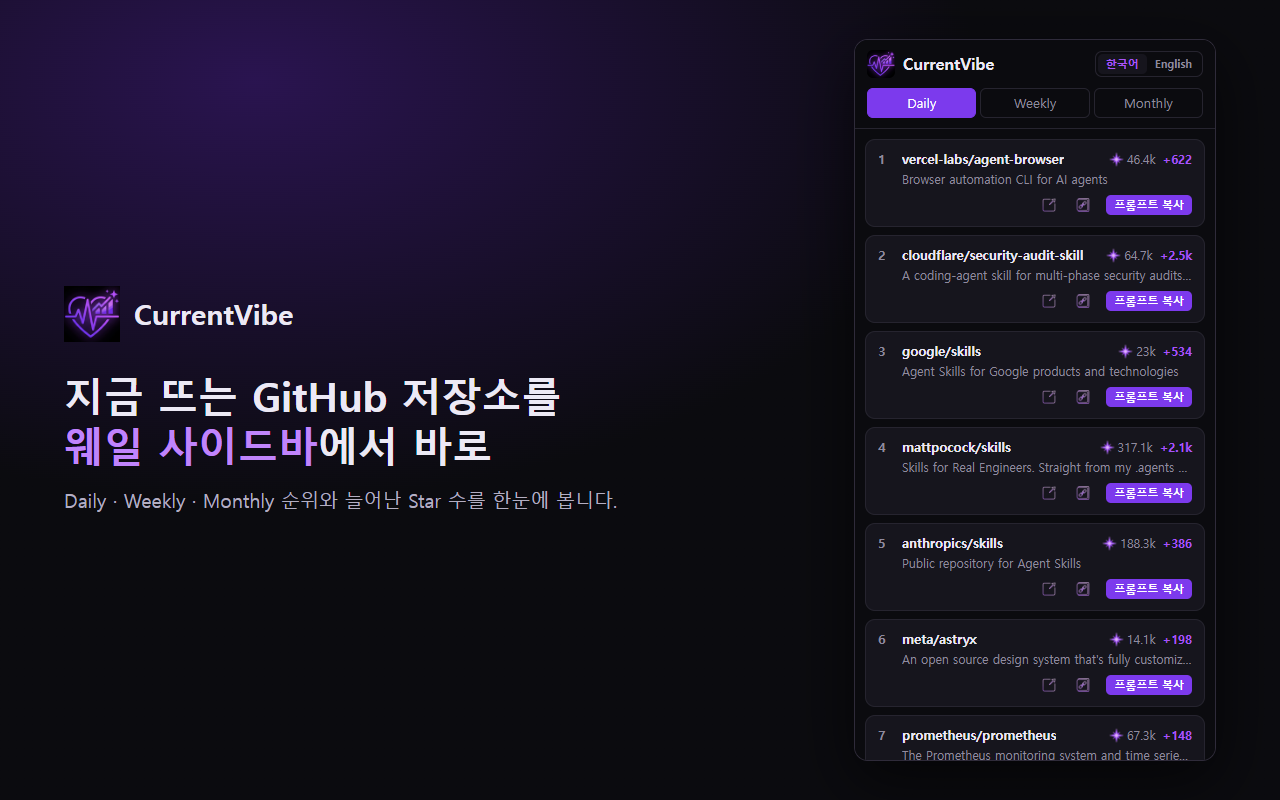
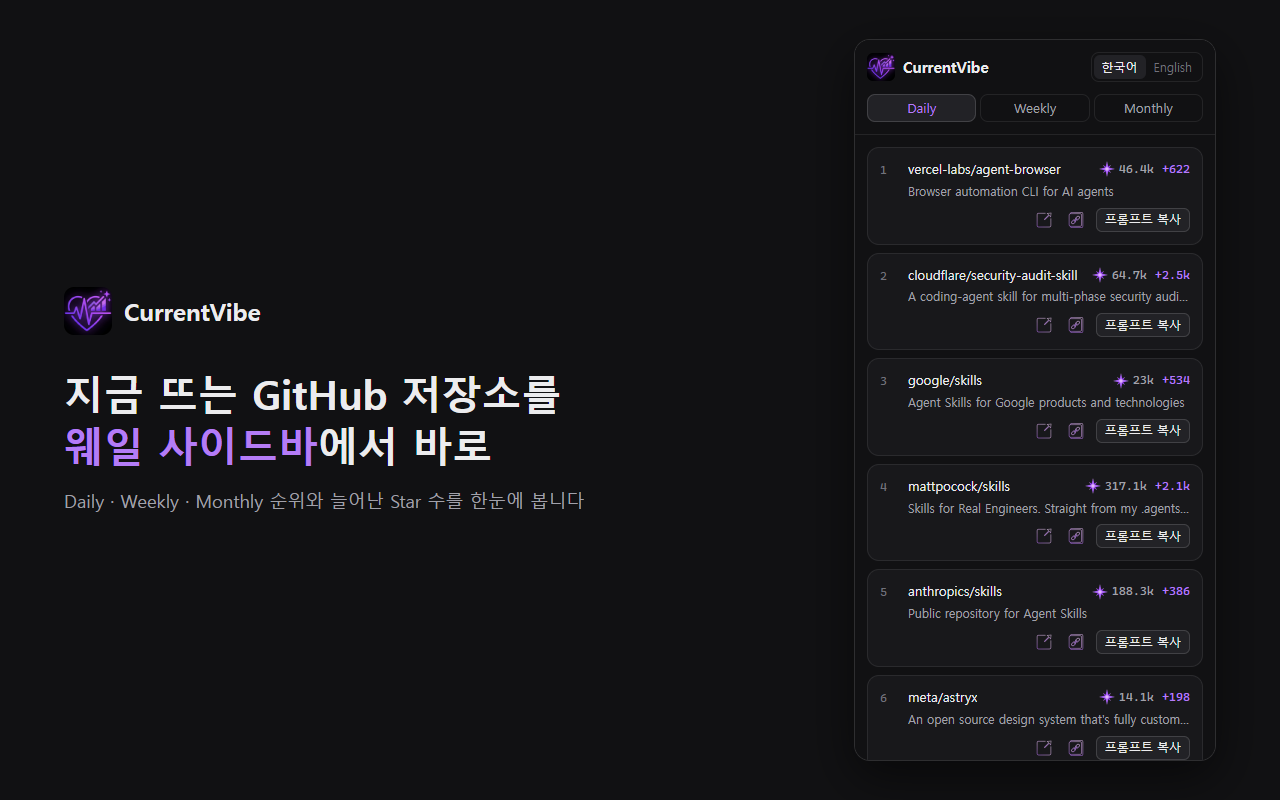
Quieter sidebar design and refreshed store screenshots
Graphite neutrals with purple only on the active tab and star gain,
neutral prompt button, mono tabular figures, 4px spacing grid, no hover
glow, plain toast copy. Store screenshots regenerated; detailed
description rewritten.

diff --git a/sidebar.css b/sidebar.css
@@ -1,81 +1,96 @@
 :root {
-  --bg: #0b0b0f;
-  --surface: #16151d;
-  --line: #26242f;
-  --text: #ece9f5;
-  --muted: #8f8a9e;
-  --purple: #a855f7;
-  --purple-strong: #7c3aed;
+  /* Graphite ramp; purple is the one accent */
+  --bg: #111113;
+  --surface: #18181b;
+  --raised: #222226;
+  --line: #ffffff14;
+  --line-strong: #ffffff24;
+  --text: #ececee;
+  --secondary: #a1a1aa;
+  --muted: #71717a;
+  --accent: #b47cf7;
+  --ease: cubic-bezier(.2, 0, 0, 1);
 }
 * { box-sizing: border-box; }
 html, body { margin: 0; background: var(--bg); color: var(--text); color-scheme: dark; }
 body { font: 13px/1.4 system-ui, -apple-system, "Segoe UI", "Malgun Gothic", sans-serif; }
 button { font: inherit; color: inherit; background: none; border: 0; cursor: pointer; }
+button:focus-visible { outline: 2px solid var(--accent); outline-offset: 2px; }
+.num { font-family: ui-monospace, "Cascadia Mono", Consolas, monospace; font-variant-numeric: tabular-nums; }
 
 header {
   position: sticky; top: 0; z-index: 1;
-  padding: 10px 12px; background: var(--bg); border-bottom: 1px solid var(--line);
+  padding: 12px; background: var(--bg); border-bottom: 1px solid var(--line);
 }
-.brand { display: flex; align-items: center; gap: 8px; margin-bottom: 10px; font-size: 16px; font-weight: 700; }
+.brand { display: flex; align-items: center; gap: 8px; margin-bottom: 12px; font-size: 15px; font-weight: 600; }
 .brand img { width: 28px; height: 28px; border-radius: 6px; }
 .bar { display: flex; gap: 8px; align-items: center; }
 #tabs { flex: 1; display: flex; gap: 4px; }
 #tabs button {
-  flex: 1; padding: 5px 0; border-radius: 6px; border: 1px solid var(--line); color: var(--muted);
+  flex: 1; height: 28px; border-radius: 8px; border: 1px solid var(--line); color: var(--secondary);
+  transition: background-color .15s var(--ease), color .15s var(--ease), border-color .15s var(--ease);
 }
-#tabs button.on { background: var(--purple-strong); border-color: var(--purple-strong); color: #fff; }
+#tabs button:hover { color: var(--text); background: var(--surface); }
+#tabs button.on { background: var(--raised); border-color: var(--line-strong); color: var(--accent); font-weight: 500; }
 /* Language switch: segmented control at the right of the brand row */
-#lang { margin-left: auto; display: flex; padding: 2px; border-radius: 7px; border: 1px solid var(--line); }
-#lang button { padding: 2px 8px; border-radius: 5px; font-size: 11px; font-weight: 600; color: var(--muted); }
+#lang { margin-left: auto; display: flex; padding: 2px; border-radius: 8px; border: 1px solid var(--line); }
+#lang button { height: 24px; padding: 0 8px; border-radius: 6px; font-size: 12px; font-weight: 500; color: var(--muted); }
 #lang button:hover { color: var(--text); }
-#lang button.on { background: var(--surface); color: var(--purple); }
+#lang button.on { background: var(--raised); color: var(--text); }
 
-#list { display: flex; flex-direction: column; gap: 8px; padding: 10px; }
-.item { padding: 10px 12px; border: 1px solid var(--line); border-radius: 10px; background: var(--surface); }
+#list { display: flex; flex-direction: column; gap: 8px; padding: 12px; }
+.item { padding: 12px; border: 1px solid var(--line); border-radius: 12px; background: var(--surface); }
 .row { display: flex; align-items: center; justify-content: space-between; gap: 8px; }
-.title { display: flex; gap: 6px; min-width: 0; }
-.rank { color: var(--muted); font-weight: 600; min-width: 18px; }
-.name { font-weight: 600; overflow: hidden; text-overflow: ellipsis; white-space: nowrap; }
-.stars { display: flex; align-items: center; gap: 3px; white-space: nowrap; font-size: 12px; color: var(--muted); }
-.stars img { width: 15px; height: 15px; }
-.gain { color: var(--purple); margin-left: 4px; font-weight: 600; }
+.title { display: flex; align-items: baseline; gap: 8px; min-width: 0; }
+.rank { color: var(--muted); min-width: 20px; font-size: 12px; }
+.name { font-weight: 500; overflow: hidden; text-overflow: ellipsis; white-space: nowrap; }
+.stars { display: flex; align-items: center; gap: 4px; white-space: nowrap; font-size: 12px; color: var(--secondary); }
+.stars img { width: 16px; height: 16px; }
+.gain { color: var(--accent); margin-left: 4px; }
 .desc {
-  margin: 3px 0 6px 24px; color: var(--muted); font-size: 12px;
+  margin: 4px 0 8px 28px; color: var(--secondary); font-size: 12px;
   white-space: nowrap; overflow: hidden; text-overflow: ellipsis;
 }
-.actions { display: flex; justify-content: flex-end; align-items: center; gap: 12px; }
-.icon { position: relative; display: flex; padding: 4px; border-radius: 6px; transition: background .15s; }
-.icon img { width: 14px; height: 14px; opacity: .8; transition: opacity .15s, filter .15s; }
-.icon:hover { background: #a855f722; }
-.icon:hover img { opacity: 1; filter: brightness(1.3) drop-shadow(0 0 3px #a855f7aa); }
+.actions { display: flex; justify-content: flex-end; align-items: center; gap: 8px; }
+.icon {
+  position: relative; display: flex; padding: 4px; border-radius: 6px;
+  transition: background-color .15s var(--ease);
+}
+.icon img { width: 16px; height: 16px; opacity: .7; transition: opacity .15s var(--ease); }
+.icon:hover { background: var(--raised); }
+.icon:hover img { opacity: 1; }
 /* Tooltip after ~1s hover */
 .icon[data-tip]::after {
-  content: attr(data-tip); position: absolute; right: 0; bottom: calc(100% + 6px);
-  padding: 3px 7px; border-radius: 5px; background: var(--line); color: var(--text);
-  font-size: 11px; white-space: nowrap; pointer-events: none; opacity: 0; transition: opacity .15s;
+  content: attr(data-tip); position: absolute; right: 0; bottom: calc(100% + 8px);
+  padding: 4px 8px; border-radius: 6px; background: var(--raised); border: 1px solid var(--line-strong);
+  color: var(--text); font-size: 12px; white-space: nowrap; pointer-events: none;
+  opacity: 0; transition: opacity .15s var(--ease);
 }
 .icon[data-tip]:hover::after { opacity: 1; transition-delay: 1s; }
 .primary {
-  padding: 2px 8px; border-radius: 5px; font-size: 11px; font-weight: 600;
-  background: var(--purple-strong); color: #fff;
+  height: 24px; padding: 0 8px; border-radius: 6px; font-size: 12px; font-weight: 500;
+  background: var(--raised); border: 1px solid var(--line-strong); color: var(--text);
+  transition: color .15s var(--ease), border-color .15s var(--ease);
 }
-.primary:hover { background: var(--purple); }
+.primary:hover { color: var(--accent); border-color: var(--accent); }
 
 .more {
-  display: block; width: 100%; margin: 2px 0 6px; padding: 7px 0; border-radius: 8px;
-  border: 1px solid var(--line); color: var(--muted); font-size: 12px;
+  display: block; width: 100%; height: 32px; margin: 0 0 4px; border-radius: 8px;
+  border: 1px solid var(--line); color: var(--secondary); font-size: 12px;
+  transition: color .15s var(--ease), background-color .15s var(--ease);
 }
-.more:hover { color: var(--text); border-color: var(--purple-strong); }
+.more:hover { color: var(--text); background: var(--surface); }
 
 .toast {
-  position: fixed; left: 50%; bottom: 16px; z-index: 2; transform: translate(-50%, 8px);
-  padding: 7px 12px; border-radius: 8px; background: var(--purple-strong); color: #fff;
-  font-size: 12px; white-space: nowrap; box-shadow: 0 6px 20px #0008;
-  opacity: 0; pointer-events: none; transition: opacity .2s, transform .2s;
+  position: fixed; left: 50%; bottom: 16px; z-index: 2; transform: translate(-50%, 4px);
+  padding: 8px 12px; border-radius: 8px; background: var(--raised); border: 1px solid var(--line-strong);
+  color: var(--text); font-size: 12px; white-space: nowrap; box-shadow: 0 4px 16px #0006;
+  opacity: 0; pointer-events: none; transition: opacity .2s var(--ease), transform .2s var(--ease);
 }
 .toast.on { opacity: 1; transform: translate(-50%, 0); }
 
-.state { padding: 40px 16px; text-align: center; color: var(--muted); }
+.state { padding: 40px 16px; text-align: center; color: var(--secondary); }
 .state button {
-  margin-top: 12px; padding: 6px 14px; border-radius: 6px; background: var(--purple-strong); color: #fff;
+  margin-top: 12px; height: 32px; padding: 0 16px; border-radius: 8px;
+  background: var(--raised); border: 1px solid var(--line-strong); color: var(--text);
 }

diff --git a/src/i18n.js b/src/i18n.js
@@ -1,14 +1,14 @@
 export const STRINGS = {
   ko: {
     daily: 'Daily', weekly: 'Weekly', monthly: 'Monthly',
-    copyPrompt: '프롬프트 복사', copied: '복사됨 ✓', open: '저장소 바로가기', copyUrl: '레포지토리 링크 복사', showMore: '더 보기',
-    toastPrompt: '프롬프트가 클립보드에 복사되었습니다! ✨', toastUrl: '링크가 클립보드에 복사되었습니다! ✨',
+    copyPrompt: '프롬프트 복사', copied: '복사됨', open: '저장소 바로가기', copyUrl: '레포지토리 링크 복사', showMore: '더 보기',
+    toastPrompt: '프롬프트를 복사했어요', toastUrl: '링크를 복사했어요',
     loading: '불러오는 중…', error: '순위를 불러오지 못했어요.', retry: '다시 시도',
   },
   en: {
     daily: 'Daily', weekly: 'Weekly', monthly: 'Monthly',
-    copyPrompt: 'Copy prompt', copied: 'Copied ✓', open: 'Open repository', copyUrl: 'Copy repository link', showMore: 'Show more',
-    toastPrompt: 'Prompt copied to clipboard! ✨', toastUrl: 'Link copied to clipboard! ✨',
+    copyPrompt: 'Copy prompt', copied: 'Copied', open: 'Open repository', copyUrl: 'Copy repository link', showMore: 'Show more',
+    toastPrompt: 'Prompt copied', toastUrl: 'Link copied',
     loading: 'Loading…', error: "Couldn't load trending repos.", retry: 'Retry',
   },
 };

diff --git a/src/sidebar.js b/src/sidebar.js
@@ -57,10 +57,10 @@ function renderItem(r) {
   const item = el('div', 'item');
   const top = el('div', 'row');
   const title = el('div', 'title');
-  title.append(el('span', 'rank', r.rank), el('span', 'name', r.name));
+  title.append(el('span', 'rank num', r.rank), el('span', 'name', r.name));
   title.title = r.name;
   const stars = el('span', 'stars');
-  stars.append(img('star.png'), formatCount(r.stars), el('span', 'gain', '+' + formatCount(r.gain)));
+  stars.append(img('star.png'), el('span', 'num', formatCount(r.stars)), el('span', 'gain num', '+' + formatCount(r.gain)));
   top.append(title, stars);
   item.append(top);
   if (r.description) {

diff --git a/tests/i18n.test.js b/tests/i18n.test.js
@@ -14,6 +14,6 @@ test('defaultLang picks en otherwise', () => {
 
 test('ko and en have identical keys', () => {
   assert.deepEqual(Object.keys(STRINGS.ko).sort(), Object.keys(STRINGS.en).sort());
-  assert.equal(STRINGS.ko.copied, '복사됨 ✓');
+  assert.equal(STRINGS.ko.copied, '복사됨');
   assert.equal(STRINGS.ko.retry, '다시 시도');
 });

diff --git a/docs/store/listing.md b/docs/store/listing.md
@@ -12,15 +12,35 @@
 **짧은 설명:** 지금 뜨는 GitHub 저장소를 웨일 사이드바에서 보고, AI에게 분석부터 시키는 프롬프트를 복사하세요.
 
 **상세 설명:**
-GitHub Trending 순위를 웨일 사이드바에서 바로 확인하세요.
+지금 개발자들 사이에서 뜨는 GitHub 저장소를 웨일 사이드바에서 바로 확인하세요.
+새 도구를 발견하면 AI에게 "바로 적용"이 아니라 "분석부터" 시키는 프롬프트를 한 번에 복사할 수 있습니다.
 
-- Daily · Weekly · Monthly 순위와 기간 동안 늘어난 Star 수를 한눈에 봅니다.
-- 저장소마다 열기, 주소 복사, 프롬프트 복사를 한 번에 할 수 있어요.
-- "프롬프트 복사"는 AI가 바로 코드를 고치지 않고, 저장소 요약, 적용 가능 여부, 사용 가능한 AI 도구와 환경, 이점, 적용 방법을 먼저 정리한 뒤 적용할지 묻게 만드는 정형화된 프롬프트입니다.
-- Claude, ChatGPT, Cursor, Codex 등 어떤 AI 도구에도 붙여 넣어 쓸 수 있어요.
-- 한국어와 영어를 전환할 수 있습니다(화면 문구와 프롬프트가 함께 바뀜).
+■ 트렌드 한눈에 보기
+- Daily · Weekly · Monthly 탭으로 GitHub Trending 순위를 확인합니다.
+- 저장소마다 전체 Star 수와 기간 동안 늘어난 Star 수를 함께 보여 줍니다.
+- 상위 10개를 먼저 보여 주고, 나머지는 "더 보기"로 펼칩니다.
 
-로그인이나 API 키가 필요 없습니다. 이 확장은 github.com/trending 페이지만 읽고, 기기에는 언어 선택만 저장합니다. 개인정보를 수집하거나 외부로 보내지 않습니다.
+■ 저장소별 바로 쓰는 버튼
+- 저장소 바로가기: 새 탭에서 GitHub 페이지를 엽니다.
+- 레포지토리 링크 복사: 저장소 주소를 클립보드에 복사합니다.
+- 프롬프트 복사: AI에게 붙여 넣을 분석 프롬프트를 복사합니다.
+- 복사하면 화면 아래에 짧은 알림이 떠서 바로 확인할 수 있어요.
+
+■ "분석부터" 시키는 프롬프트
+AI가 코드를 바로 고치지 않고 다음 순서로 먼저 정리하게 만듭니다.
+1. 요약: 이 저장소가 무엇이고 어떻게 동작하는지
+2. 적용 가능 여부: 지금 내 프로젝트와 환경에 맞는지, 그 이유
+3. 사용 가능한 환경: 어떤 AI 도구와 환경에서 쓸 수 있는지, 설치 형태(스킬, 플러그인, MCP 서버, 라이브러리 등)
+4. 이점: 적용했을 때 얻는 것
+5. 적용 방법: 단계 개요, 예상 변경 범위, 단점과 주의할 점
+분석이 끝나면 적용할지 먼저 묻고, 승인하기 전까지 아무것도 바꾸지 않습니다.
+Claude, ChatGPT, Cursor, Codex 등 어떤 AI 도구에도 붙여 넣어 쓸 수 있습니다.
+
+■ 한국어 · English
+오른쪽 위 스위치로 언어를 바꾸면 화면 문구와 프롬프트가 함께 바뀝니다.
+
+■ 개인정보
+로그인이나 API 키가 필요 없습니다. github.com/trending 페이지만 읽고, 기기에는 언어 선택만 저장합니다. 개인정보를 수집하거나 외부로 보내지 않습니다.
 
 ## English
 
@@ -29,12 +49,32 @@ GitHub Trending 순위를 웨일 사이드바에서 바로 확인하세요.
 **Short description:** See trending GitHub repos in your Whale sidebar and copy a prompt that makes your AI analyze before it applies anything.
 
 **Detailed description:**
-Browse GitHub Trending right in the Whale sidebar.
+See what is trending on GitHub right in your Whale sidebar.
+When you find a new tool, copy a prompt that makes your AI analyze it first instead of applying it right away.
 
-- Daily · Weekly · Monthly rankings with total stars and stars gained in the period.
-- Open, copy URL, or copy prompt for each repository in one click.
-- "Copy prompt" gives a structured prompt that makes the AI summarize the repo, judge whether it fits your project, list which AI tools and environments it works with, explain the benefits and how to apply it — and then ask before changing anything.
-- Works with any AI tool: Claude, ChatGPT, Cursor, Codex and more.
-- Switch between Korean and English (UI text and prompt switch together).
+■ Trends at a glance
+- Daily · Weekly · Monthly tabs for GitHub Trending.
+- Total stars and stars gained in the period for each repository.
+- The top 10 come first; "Show more" reveals the rest.
 
+■ One-click actions per repository
+- Open repository: opens the GitHub page in a new tab.
+- Copy repository link: copies the URL to your clipboard.
+- Copy prompt: copies an analysis prompt to paste into your AI.
+- A short toast confirms each copy.
+
+■ A prompt that analyzes first
+The AI reports in this order before touching any code:
+1. Summary: what the repository is and how it works
+2. Applicability: whether it fits your current project and environment, and why
+3. Supported environments: which AI tools and environments it works with, and its install form (skill, plugin, MCP server, library, etc.)
+4. Benefits: what you gain by applying it
+5. How to apply: outline of steps, expected scope of changes, downsides and cautions
+Then it asks whether to apply it and changes nothing until you approve.
+Works with any AI tool: Claude, ChatGPT, Cursor, Codex and more.
+
+■ Korean · English
+Use the switch at the top right; the UI text and the prompt change together.
+
+■ Privacy
 No login or API key needed. The extension only reads github.com/trending and stores only your language choice on your device. It collects no personal data and sends nothing elsewhere.
